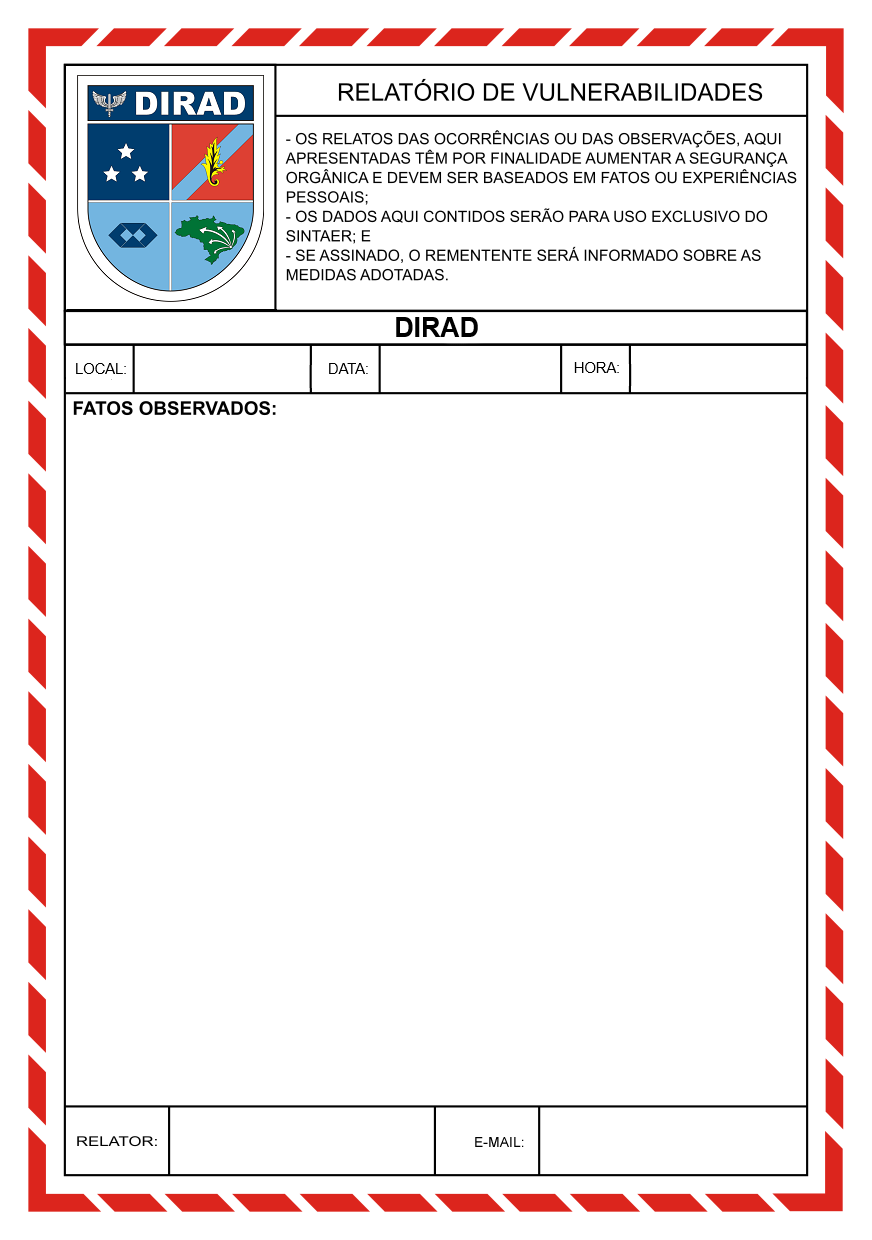
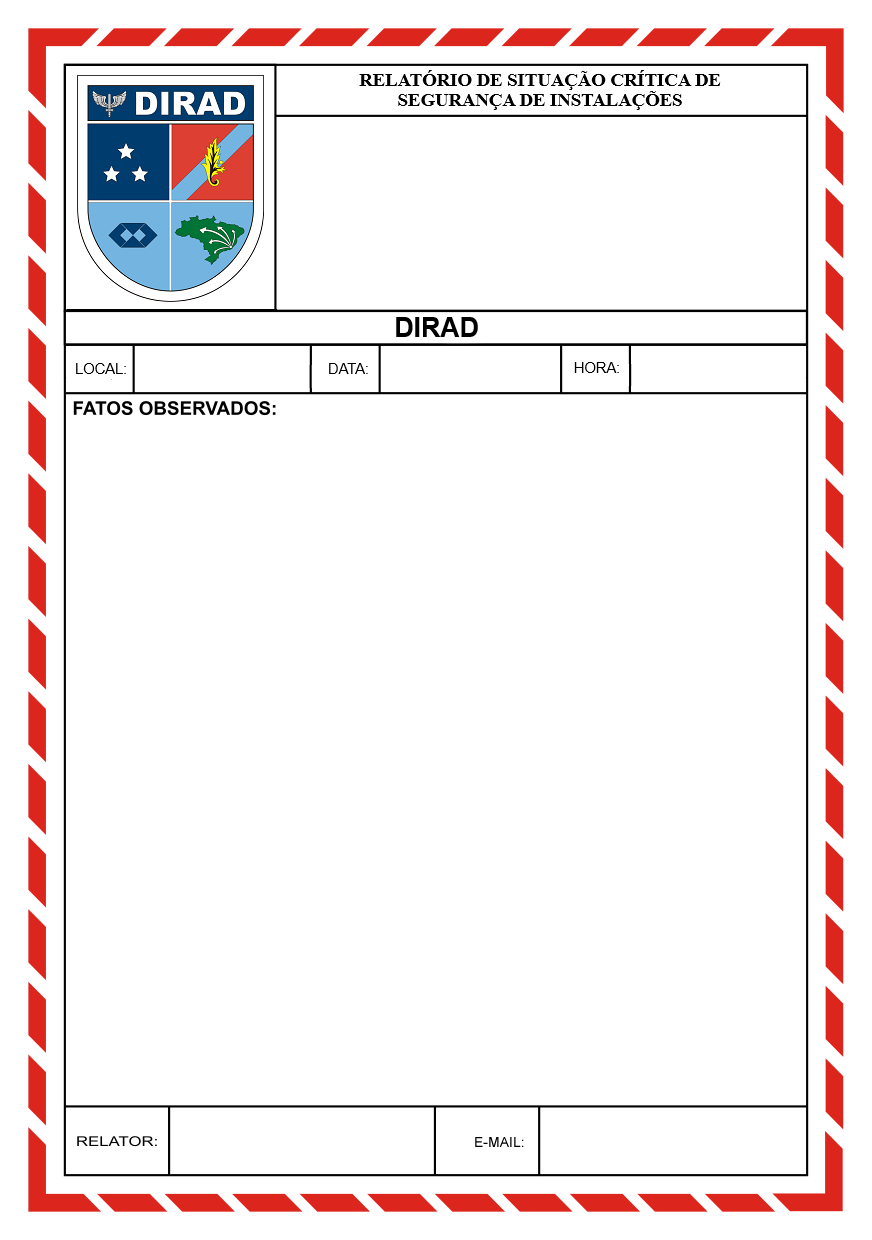
Adaptação do Sistema para a DIRAD
As variáveis e informações foram alteradas para que o sistema seja implantado na DIRAD.

Changed region(s): [[0.3096, 0.0613, 0.9289, 0.2452]]

diff --git a/relprev.css b/relprev.css
@@ -55,7 +55,7 @@ body		{ background: url("degrade.jpg") repeat-x; }
 .input {
     background-color: #fff;
     font:12px verdana, arial, helvetica, sans-serif;
-    font-style: italic;
+    /* font-style: italic; */
     color:#04d;
     width:550px;
     border: dotted 1px #ccc;
@@ -66,43 +66,43 @@ body		{ background: url("degrade.jpg") repeat-x; }
 .input_local {
     background-color: #fff;
     font:12px verdana, arial, helvetica, sans-serif;
-    font-style: italic;
+    /* font-style: italic; */
     color:#04d;
     width:160px;
     border: dotted 1px #ccc;
     margin-bottom: 5px;
     padding: 3px;
-	margin-top: 20px;
+	margin-top: 7px;
 }
 
 .input_time {
     background-color: #fff;
     font:12px verdana, arial, helvetica, sans-serif;
-    font-style: italic;
+    /* font-style: italic; */
     color:#04d;
     width:160px;
     border: dotted 1px #ccc;
     margin-bottom: 5px;
     padding: 3px;
-	margin-top: 20px;
+	margin-top: 7px;
 }
 
 .input_id {
     background-color: #fff;
     font:12px verdana, arial, helvetica, sans-serif;
-    font-style: italic;
+    /* font-style: italic; */
     color:#04d;
     width:235px;
     border: dotted 1px #ccc;
     margin-top: 45px;
-    margin-bottom: 5px;
+    margin-bottom: 10px;
     padding: 3px;
 }
 
 .textarea {
     background-color: #fff;
     font:12px verdana, arial, helvetica, sans-serif;
-    font-style: italic;
+    /* font-style: italic; */
     color:#04d;
     width:700px;
     border: dotted 1px #ccc;
@@ -126,7 +126,7 @@ body		{ background: url("degrade.jpg") repeat-x; }
 .submit:hover {
     background-color: #d00;
     font:13px verdana, arial, helvetica, sans-serif;
-    font-style: italic;
+    /* font-style: italic; */
     color:#fff;
     width:140px;
     border: solid 1px #fff;
@@ -137,7 +137,7 @@ body		{ background: url("degrade.jpg") repeat-x; }
 .submit {
     background-color: #fff;
     font:13px verdana, arial, helvetica, sans-serif;
-    font-style: italic;
+    /* font-style: italic; */
     color:#d00;
     width:140px;
     border: solid 1px #f00;
@@ -202,7 +202,7 @@ body		{ background: url("degrade.jpg") repeat-x; }
     padding-top: 0px;
     padding-left: 550px;
     color: #00a;
-    font-style: italic;
+    /* font-style: italic; */
 }
 
 .botoes
@@ -216,7 +216,7 @@ body		{ background: url("degrade.jpg") repeat-x; }
 {
     padding: 65px 0 0 0;
     text-align: center;
-    font-style: italic;
+    /* font-style: italic; */
     font-size: 12px;
     color: #999;
 }

diff --git a/envia.php b/envia.php
@@ -1,6 +1,6 @@
 <html>
 	<head>
-		<title>DITL - Inteligência PAMA-LS</title>   
+		<title>DIRAD - Relatório de Situação Crítica de Segurança</title>   
 		<meta http-equiv='Content-Type' content='text/html;charset=UTF-8'>
 		<link rel='stylesheet' href='./relprev.css' type='text/css' media='screen'></link>
 	</head>
@@ -101,7 +101,7 @@ $mail->FromName = ""; // Seu nome
 
 # Define os destinat?io(s)
 //$mail->AddAddress('sint.ciaar@fab.mil.br', 'SINT - CIAAR'); # Os campos podem ser substituidos por vari?eis
-$mail->AddAddress('ditl@fab.mil.br', 'DITL - PAMA-LS'); # Os campos podem ser substituidos por vari?eis
+$mail->AddAddress('csod.dirad@fab.mil.br', 'CSOD - DIRAD'); # Os campos podem ser substituidos por vari?eis
 
 
 #$mail->AddCC('ciclano@site.net', 'Ciclano'); # Copia
@@ -112,7 +112,7 @@ $mail->IsHTML(true); # Define que o e-mail ser?enviado como HTML
 $mail->CharSet = 'UTF-8'; # Charset da mensagem (opcional)
 
 # Define a mensagem (Texto e Assunto)
-$mail->Subject = "DITL - Relatório de Vulnerabilidades - PAMA-LS"; # Assunto da mensagem
+$mail->Subject = "DIRAD - Relatório de Situação Crítica de Segurança"; # Assunto da mensagem
 //$mail->Body = $body; #Corpo do e-mail
 $mail->MsgHTML($body);
 //$mail->AltBody = "Este ?o corpo da mensagem de teste, somente Texto! \r\n :)";
@@ -156,4 +156,3 @@ if ($enviado) {
 ?>
 </body>
 </html>
-

diff --git a/phpmailer/class.phpmailer.php b/phpmailer/class.phpmailer.php
@@ -1858,8 +1858,7 @@ class PHPMailer {
       default:
         // Replace every high ascii, control =, ? and _ characters
         //TODO using /e (equivalent to eval()) is probably not a good idea
-        $encoded = preg_replace('/([\000-\011\013\014\016-\037\075\077\137\177-\377])/e',
-                                "'='.sprintf('%02X', ord(stripslashes('\\1')))", $encoded);
+        $encoded = preg_replace('/([\000-\011\013\014\016-\037\075\077\137\177-\377])/e', "'='.sprintf('%02X', ord(stripslashes('\\1')))", $encoded);
         break;
     }
 
